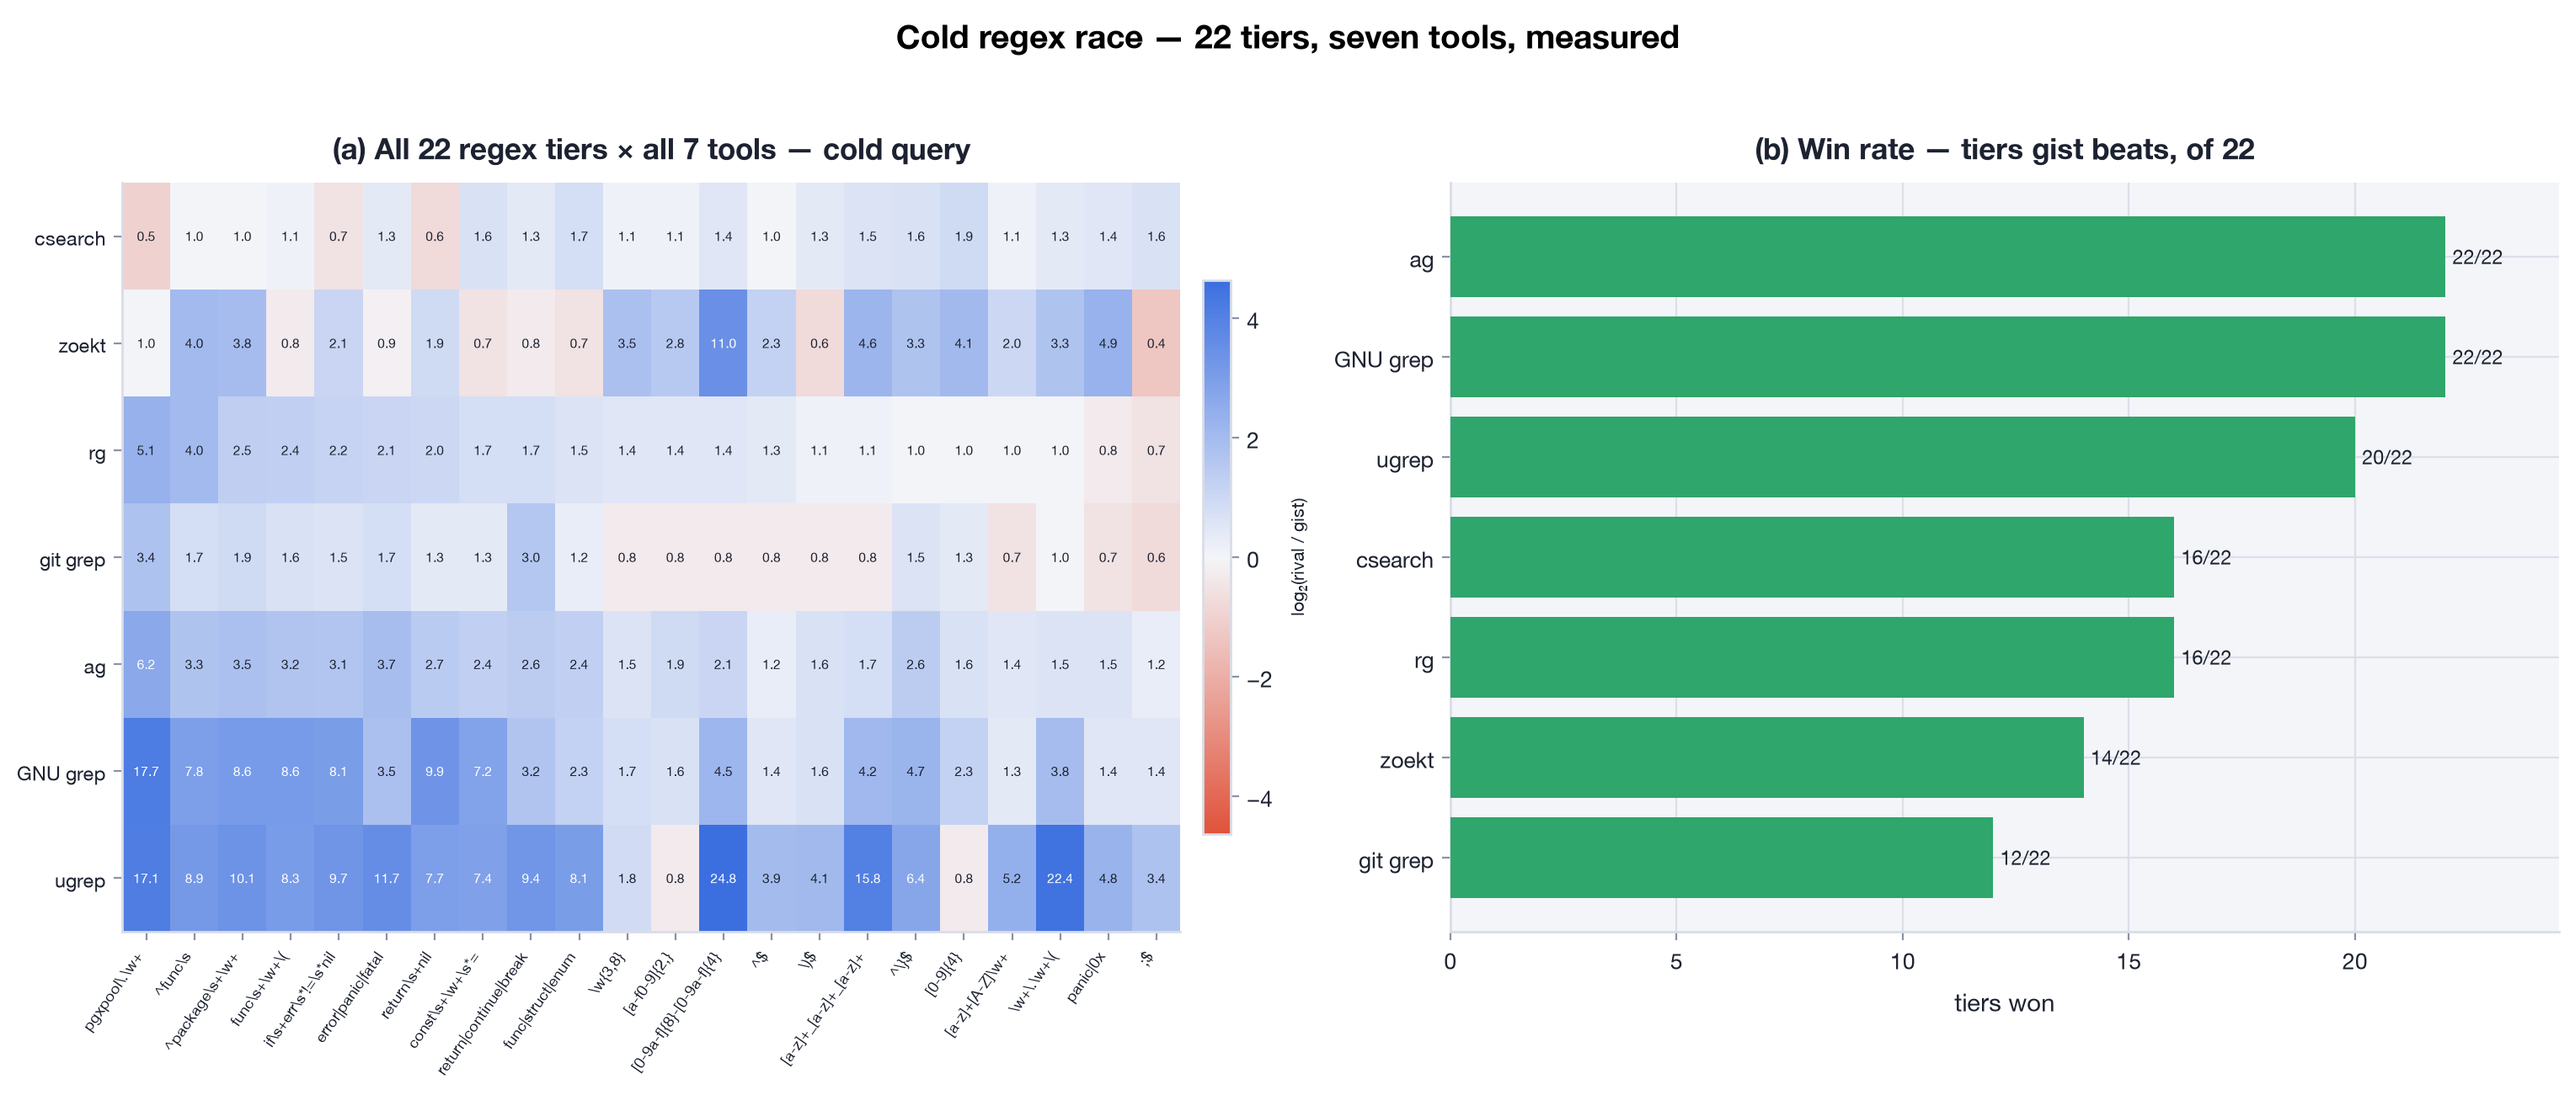
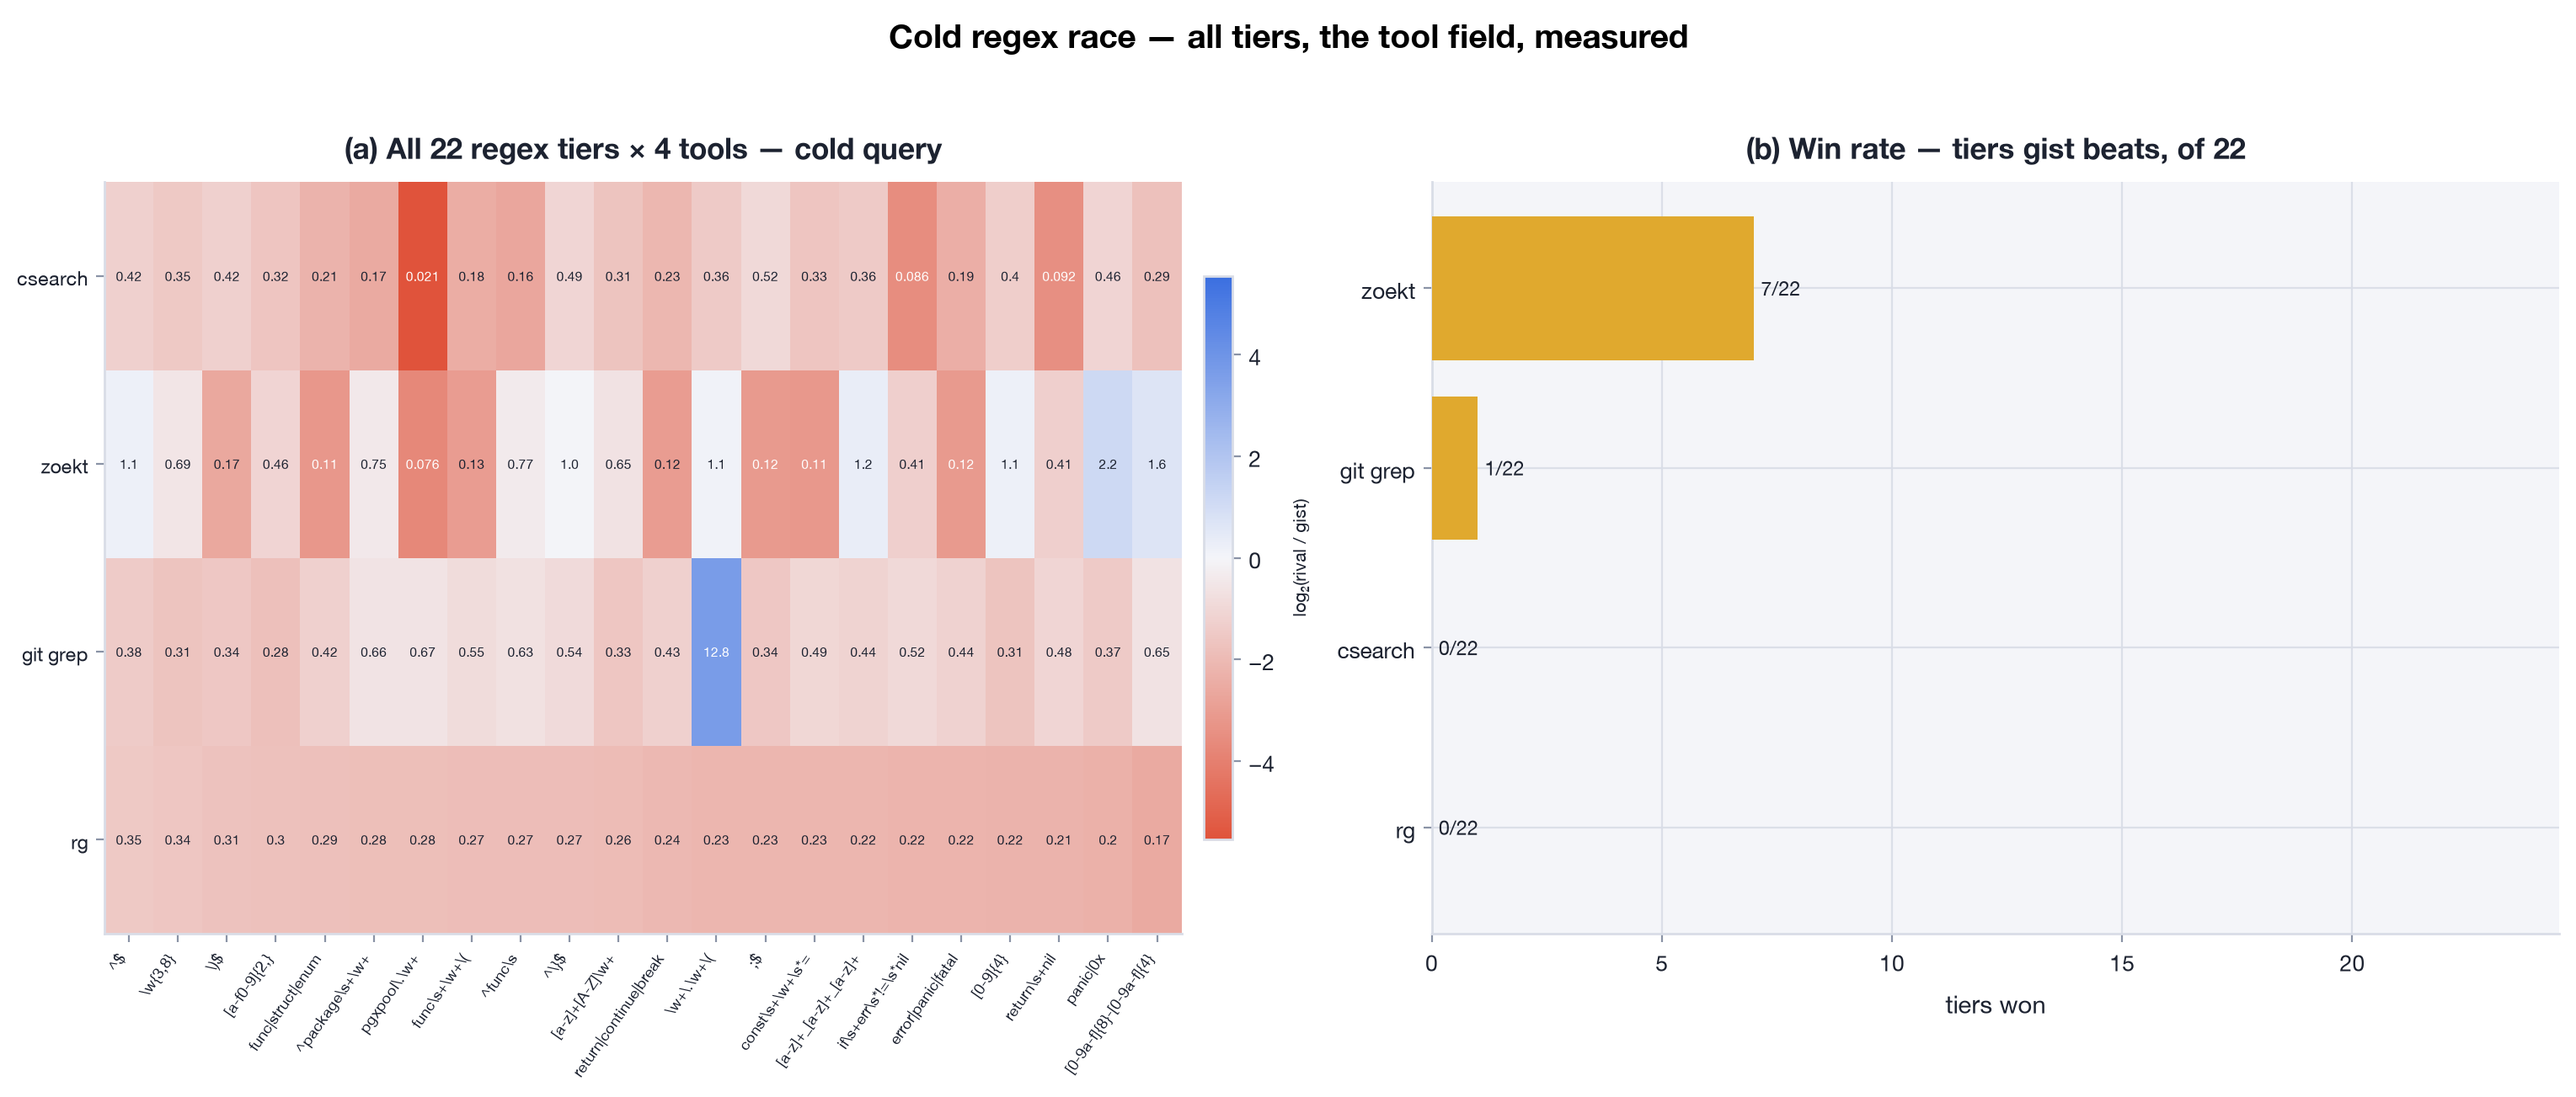
feat(gist): race figures read committed data + fix regex.csv comma injection
Finishes the from-raw dataviz conversion. gist_cold_field / gist_warm_dominance /
gist_regex_matrix read bench/races/artifact/{cold,warm,regex}.csv (published from
the races); gist_scan_progression reads bench/races/artifact/scan_progression.json
(curated PMU history). All fail loud if the data is missing; check_artifacts.py
--dataviz passes on all 5 gist figures; assets/gist-*.png regenerated.

Also fixes a CSV-injection bug in regex_headtohead.sh: comma patterns (\w{3,8},
[a-f0-9]{2,}) were written unquoted and corrupted regex.csv; the pattern field is
now quoted and the figure parser skips non-numeric cells.

Committed race data (Apple M2, ~15.3k files) confirms the certificate's split:
WARM resident dominates (rg 807x, git grep 1158x, 20/20); COLD literal + regex
lose to the field (rg ~0.3x) — the per-query freshness stat()-walk cost.

diff --git a/bench/certify/check_artifacts.py b/bench/certify/check_artifacts.py
@@ -44,7 +44,7 @@ REQUIRED_MACHINE_KEYS = (
 )
 REQUIRED_TOOLS = ("zig", "rg", "csearch", "zoekt", "hyperfine")
 TRANSCRIBE_MARKERS = re.compile(r"transcrib|hardcod|\bmanual\b|hand-wave|paste (?:it|the)", re.I)
-CSV_READ = re.compile(r"read_csv|DictReader|loadtxt|genfromtxt|csv\.reader|open\([^)]*\.csv")
+CSV_READ = re.compile(r"read_csv|DictReader|loadtxt|genfromtxt|csv\.reader|json\.load|open\([^)]*\.(csv|json)")
 
 
 def check_artifacts(d: Path) -> list[str]:

diff --git a/bench/races/artifact/README.md b/bench/races/artifact/README.md
@@ -1,0 +1,20 @@
+# Committed race data (figure source)
+
+Reproducible snapshots of the three `bench/races/*.sh` races, published from the
+gitignored `.local/gist-compete/*.csv`. The `gist_{cold_field,warm_dominance,regex_matrix}.py`
+dataviz figures read these at render time — generated from committed data, not
+transcribed. `check_artifacts.py --dataviz` enforces that.
+
+| File | Race | Columns |
+|---|---|---|
+| `cold.csv` | `coldquery.sh` — cold one-shot literal | `needle,tool,kind,ms,gist_ms,ratio` |
+| `warm.csv` | `headtohead.sh` — warm resident vs unindexed | `needle,tool,ms,gist_ms,ratio` |
+| `regex.csv` | `regex_headtohead.sh` — cold regex tiers | `tier,pattern,tool,kind,ms,gist_ms,ratio` |
+| `scan_progression.json` | curated PMU / optimization history (not a race — see its `provenance`) | — |
+
+**Machine-specific** (Apple M2, ~15.3k-file worktree, `ratio = rival_ms / gist_ms`;
+`>1` = gist faster). The verdicts on this box: gist's **WARM resident** path
+dominates (rg 807×, git grep 1158×, 20/20), while its **COLD** CLI loses to the
+whole field (rg 0.3×, csearch/zoekt 0.1×) — the per-query freshness `stat()`-walk
+cost — consistent with the macro certificate in `bench/certify/artifact/`.
+Regenerate (`make figures`) rather than hand-editing.
